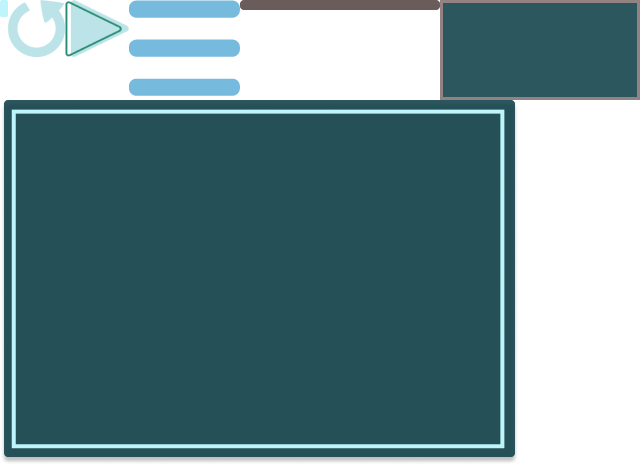
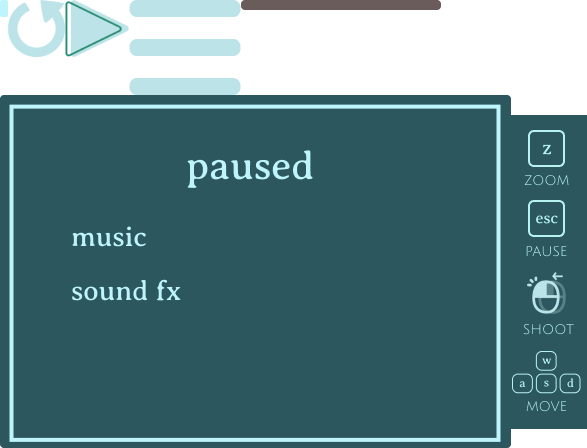
New pause screen

diff --git a/core/src/edu/cornell/gdiac/physics/HUD.java b/core/src/edu/cornell/gdiac/physics/HUD.java
@@ -54,9 +54,9 @@ public class HUD {
     private static final int ICON_SIZE_BIG = 60;
     private static final int FONT_TITLE_SIZE = 50;
     private static final int FONT_SUBTITLE_SIZE = 48;
-    private static final String TITLE_TXT = "paused";
-    private static final String MUSIC_TXT = "music";
-    private static final String SFX_TXT = "sound fx";
+    private static final String TITLE_TXT = "";
+    private static final String MUSIC_TXT = "";
+    private static final String SFX_TXT = "";
 
     /** Golem & Time Tracking Variables */
     private static int numCurrentHosts;
@@ -178,28 +178,22 @@ public class HUD {
         pauseTable.setHeight(pauseHeight);
         pauseTable.setWidth(pauseWidth);
         pauseTable.setBackground(skin.getDrawable(sBACKGROUND));
-        pauseTable.setPosition(Gdx.graphics.getWidth()/2 - pauseWidth/2 ,Gdx.graphics.getHeight()/2 - pauseHeight/2);
+        pauseTable.setPosition(Gdx.graphics.getWidth()/2 - pauseWidth/2 + 40,Gdx.graphics.getHeight()/2 - pauseHeight/2);
+        pauseTable.padRight(80);
 
         /** Font Styles */
-        FreeTypeFontGenerator gen = new FreeTypeFontGenerator(Gdx.files.internal(FONT_FILE));
-        FreeTypeFontGenerator.FreeTypeFontParameter param = new FreeTypeFontGenerator.FreeTypeFontParameter();
-        param.size = FONT_TITLE_SIZE;
-        BitmapFont fontTitle = gen.generateFont(param);
-        param.size = FONT_SUBTITLE_SIZE;
-        BitmapFont fontSubtitle = gen.generateFont(param);
-        gen.dispose();
+        BitmapFont font = new BitmapFont();
 
         /** Title Label */
-        Label.LabelStyle titleLS = new Label.LabelStyle(fontTitle, Color.WHITE);
+        Label.LabelStyle titleLS = new Label.LabelStyle(font, Color.WHITE);
         titleLabel = new Label(TITLE_TXT, titleLS);
         pauseTable.add(titleLabel).colspan(3);
 
         /** Add Row in Table */
-        pauseTable.row().padTop(40);
+        pauseTable.row().padTop(70);
 
         /** Music Label */
-        fontSubtitle.getData().setScale(0.5f);
-        Label.LabelStyle subTitleLS = new Label.LabelStyle(fontSubtitle, Color.WHITE);
+        Label.LabelStyle subTitleLS = new Label.LabelStyle(font, Color.WHITE);
         musicLabel = new Label(MUSIC_TXT, subTitleLS);
         pauseTable.add(musicLabel).colspan(1).padLeft(20);
 
@@ -211,7 +205,7 @@ public class HUD {
         musicSlider.addListener(new ChangeListener() {
             @Override
             public void changed(ChangeEvent event, Actor actor) {
-                System.out.println("MUSIC SLIDED: " + musicSlider.getValue());
+                //System.out.println("MUSIC SLIDED: " + musicSlider.getValue());
                 MusicController.getInstance().setVolume((int) musicSlider.getValue());
             }
         });
@@ -219,7 +213,7 @@ public class HUD {
         pauseTable.add(musicSlider).colspan(2);
 
         /** Add New Row */
-        pauseTable.row().padTop(20);
+        pauseTable.row().padTop(40);
 
         /** SoundFX Label */
         sfxLabel = new Label(SFX_TXT, subTitleLS);
@@ -231,7 +225,7 @@ public class HUD {
         sfxSlider.addListener(new ChangeListener() {
             @Override
             public void changed(ChangeEvent event, Actor actor) {
-                System.out.println("SFX SLIDED: " + sfxSlider.getValue());
+                // System.out.println("SFX SLIDED: " + sfxSlider.getValue());
                 SoundController.getInstance().setVolume((int) sfxSlider.getValue());
             }
         });
@@ -254,7 +248,7 @@ public class HUD {
             }
         });
 
-        pauseTable.add(menu).width(ICON_SIZE_SMALL).height(ICON_SIZE_SMALL).padRight(30);
+        pauseTable.add(menu).width(ICON_SIZE_SMALL).height(ICON_SIZE_SMALL).padRight(60);
 
         /** Retry Button */
         Button.ButtonStyle retryStyle = new Button.ButtonStyle();
@@ -283,7 +277,7 @@ public class HUD {
             }
         });
 
-        pauseTable.add(play).width(ICON_SIZE_SMALL).width(ICON_SIZE_SMALL).padLeft(30);
+        pauseTable.add(play).width(ICON_SIZE_SMALL).width(ICON_SIZE_SMALL).padLeft(60);
 
         /** SET INPUT PROCESSOR TO THIS SCREEN */
         Gdx.input.setInputProcessor(stage);
